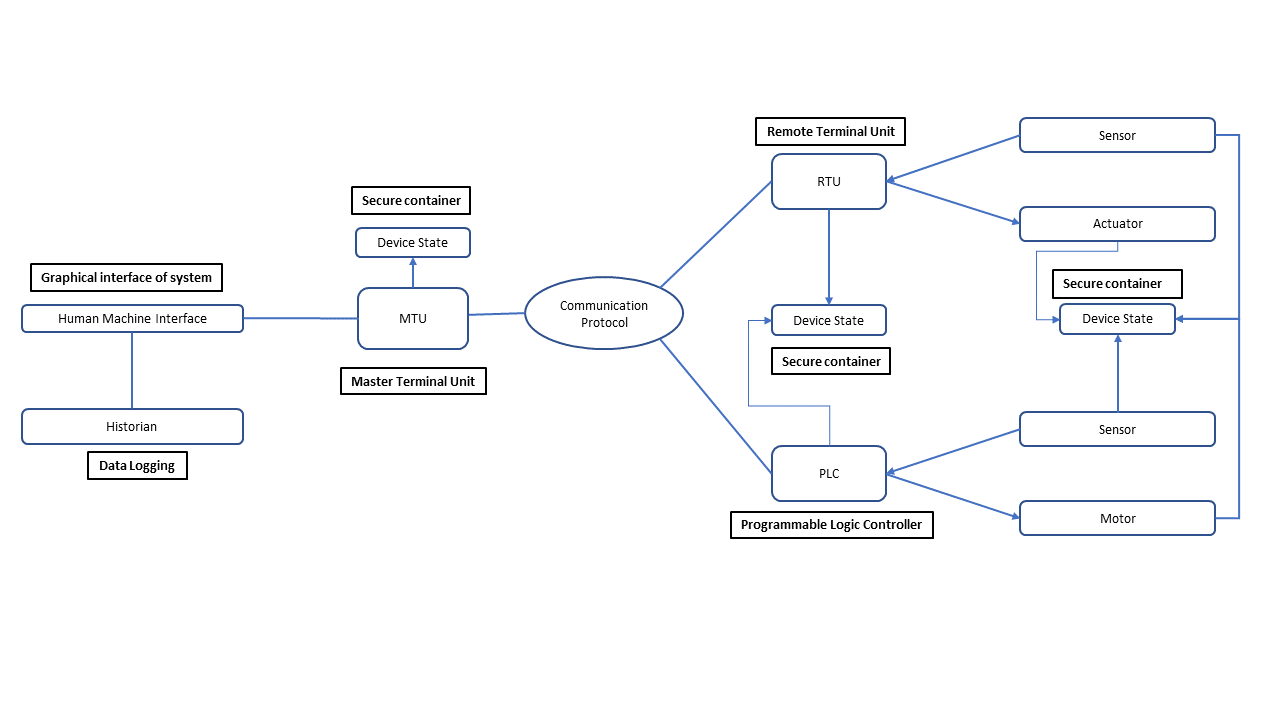
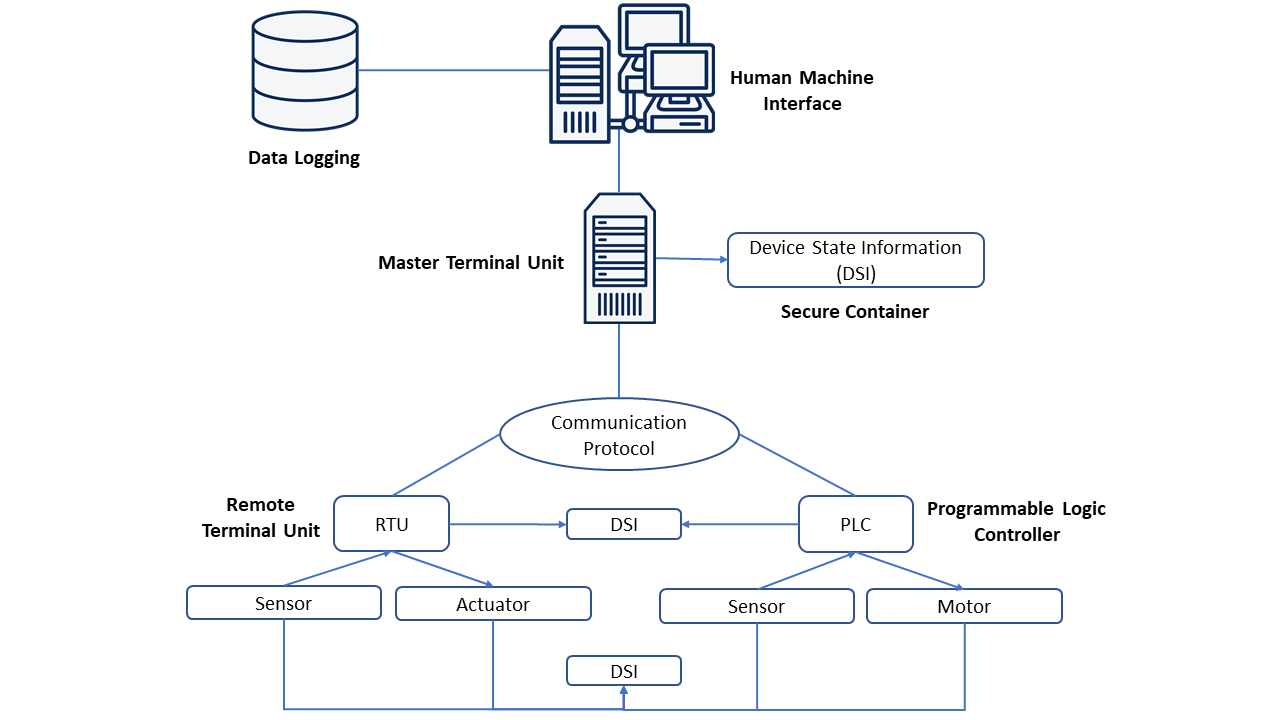
edited secure architecture

diff --git a/conference_041818.tex b/conference_041818.tex
@@ -24,11 +24,11 @@
 Cookeville,TN,USA \\
 mmithu42@students.tntech.edu}
 \and
-\IEEEauthorblockN{Denis Ulybyshev}
+\IEEEauthorblockN{Michael Rogers, Denis Ulybyshev}
 \IEEEauthorblockA{\textit{Computer Science Department, CEROC} \\
 \textit{Tennessee Technological University}\\
 Cookeville, TN, United States of America \\
-dulybyshev@tntech.edu}
+mrogers, dulybyshev@tntech.edu}
 \and
 % \IEEEauthorblockN{3\textsuperscript{rd} Given Name Surname}
 % \IEEEauthorblockA{\textit{dept. name of organization (of Aff.)} \\
@@ -59,11 +59,11 @@ dulybyshev@tntech.edu}
 
 \begin{abstract}
 % Dr. Rogers - pls add a paragraph 
-% Dr. Denis - pls add a paragraph
+To detect a root cause of anomaly, it is essential to provide confidentiality and integrity for log records. In this paper, we present a secure data container that can be used to protect log records as well as detected state for devices in cyber-physical systems. Data protection is provided in transit and at rest. Our data container supports role-based and attribute-based access control, so that every party can access only those data subsets for which the party is authorized. Additionally, data container provides data leakage prevention. Furthermore, we address the insider threat by detecting several types of data leakages that can be made by malicious insiders. 
 \end{abstract}
 
 \begin{IEEEkeywords}
-
+intrusion detection, data privacy, industrial control systems 
 \end{IEEEkeywords}
 
 \section{Introduction}
@@ -102,10 +102,21 @@ This system component of the architecture is responsible to identify important i
 The second component of our architecture is the SCADA components. This component of the system will monitor system states real time and transfer the state information to the detection process. Two modules are required to execute these actions. The first module is the \textit{\textbf{State Monitor}} and the other module is called \textit{\textbf{State Router}}.
 \par The state monitor module is responsible for real time monitoring of the device state. The information collected by the image mapping module in the off-line tools component is used in this module to gather the important sate information from the device. State monitor module will have prior knowledge of what information are necessary to represent the state and where the information are kept in the device. 
 \par The device state information collected by the state monitor module will be transferred by the state router module to the node that is computationally more resourceful. This node can perform security analysis to identify if the device is compromised.
-\subsection{Secure Container}
+\subsection{Secure Data Container}
 Proposed solution for protecting data in transit and at rest with providing leakage detection, as well as role-based and attribute-based access control, relies on Secure Mobile Protected Agent with Data (SMPAD). The idea was inspired by an Active Bundle concept [2], [3]. SMPAD is a self-protecting data container that incorporates sensitive data in encrypted form with watermarks, access control policies, metadata, provenance data collector, policy and attribute enforcement kernel. SMPAD can be used to store log files as well as sensor data snapshots. Each separate data subset is encrypted with separate encryption key, generated on-the-fly for each client’s role based on the unique information from the SMPAD execution control flow path. The access control model relies on role-based and attribute-based access control model and guarantees that a client will be able to access only those data subsets from a data container for which the client is authorized [4]. Data container provides tamper-resistance and data integrity. Moreover, SMPAD can detect several types of data leakages that can be made by authorized insiders [1]. The novelty of the proposed solution is that it works in both centralized and decentralized peer-to-peer network architectures. Central Authority (CA) is not required neither for data recipient’s key generation nor for access control policy enforcement.
-%Denis: add SMPAD figure
 
+\begin{figure}[htbp]
+\centering
+\centerline{\includegraphics [width=6cm] {SMPAD.png}}
+\caption{SMPAD: Secure Data Container}
+\label{fig}
+\end{figure}
+
+%Denis:
+- list set of supported attributes for ABAC
+- talk about on-the-fly key generation scheme
+- talk about data leakage detection via watermarks
+ 
 \subsection{Detection Process}
 Detection process is the most important component of the secure architecture. This process is responsible for intrusion detection in the SCADA environment. Typical intrusion detection system (IDS) uses the network packets to analyze the traffic and generate alert in case of any abnormal activity in the network. However, in SCADA environment, it is not necessary that an abnormal network behavior will always be the reason for intrusion. Often times a series of valid commands can lead to a critical situation in the SCADA environment that will cause serious damage to the infrastructure. The IDS will not generate any alert in that situation as the network traffic will not look suspicious or abnormal.
 \par The intrusion detection system in this component uses the information gathered by the training module in the off-line tools component to learn about device state. The IDS also receives real time information from the state router and performs analysis to detect compromised device. The information from the state router is also used to improve the IDS detection engine based on the accuracy of intrusion detection. The main idea in the detection process is to provide additional information to the IDS along with the network packets to improve the detection method. The device state information will help the IDS to verify any alert generated from analyzing the network traffic of the SCADA system.  
